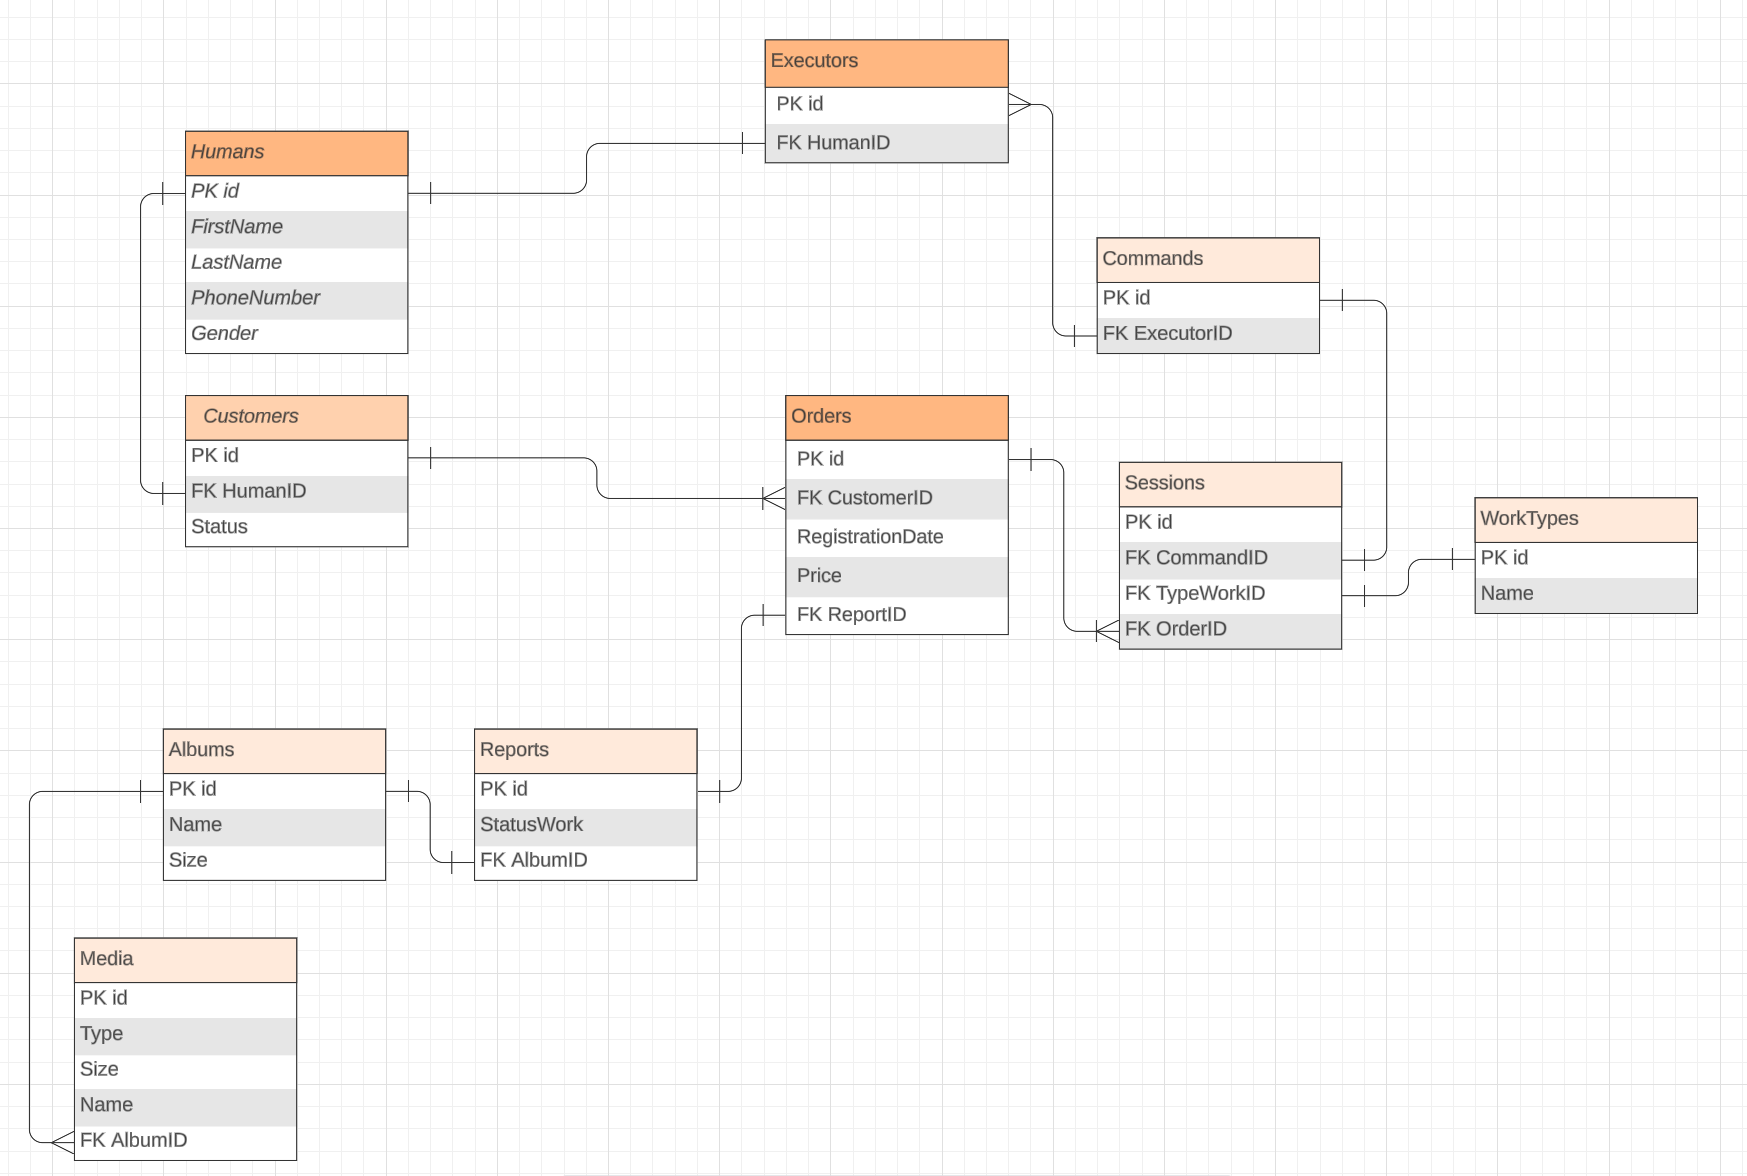
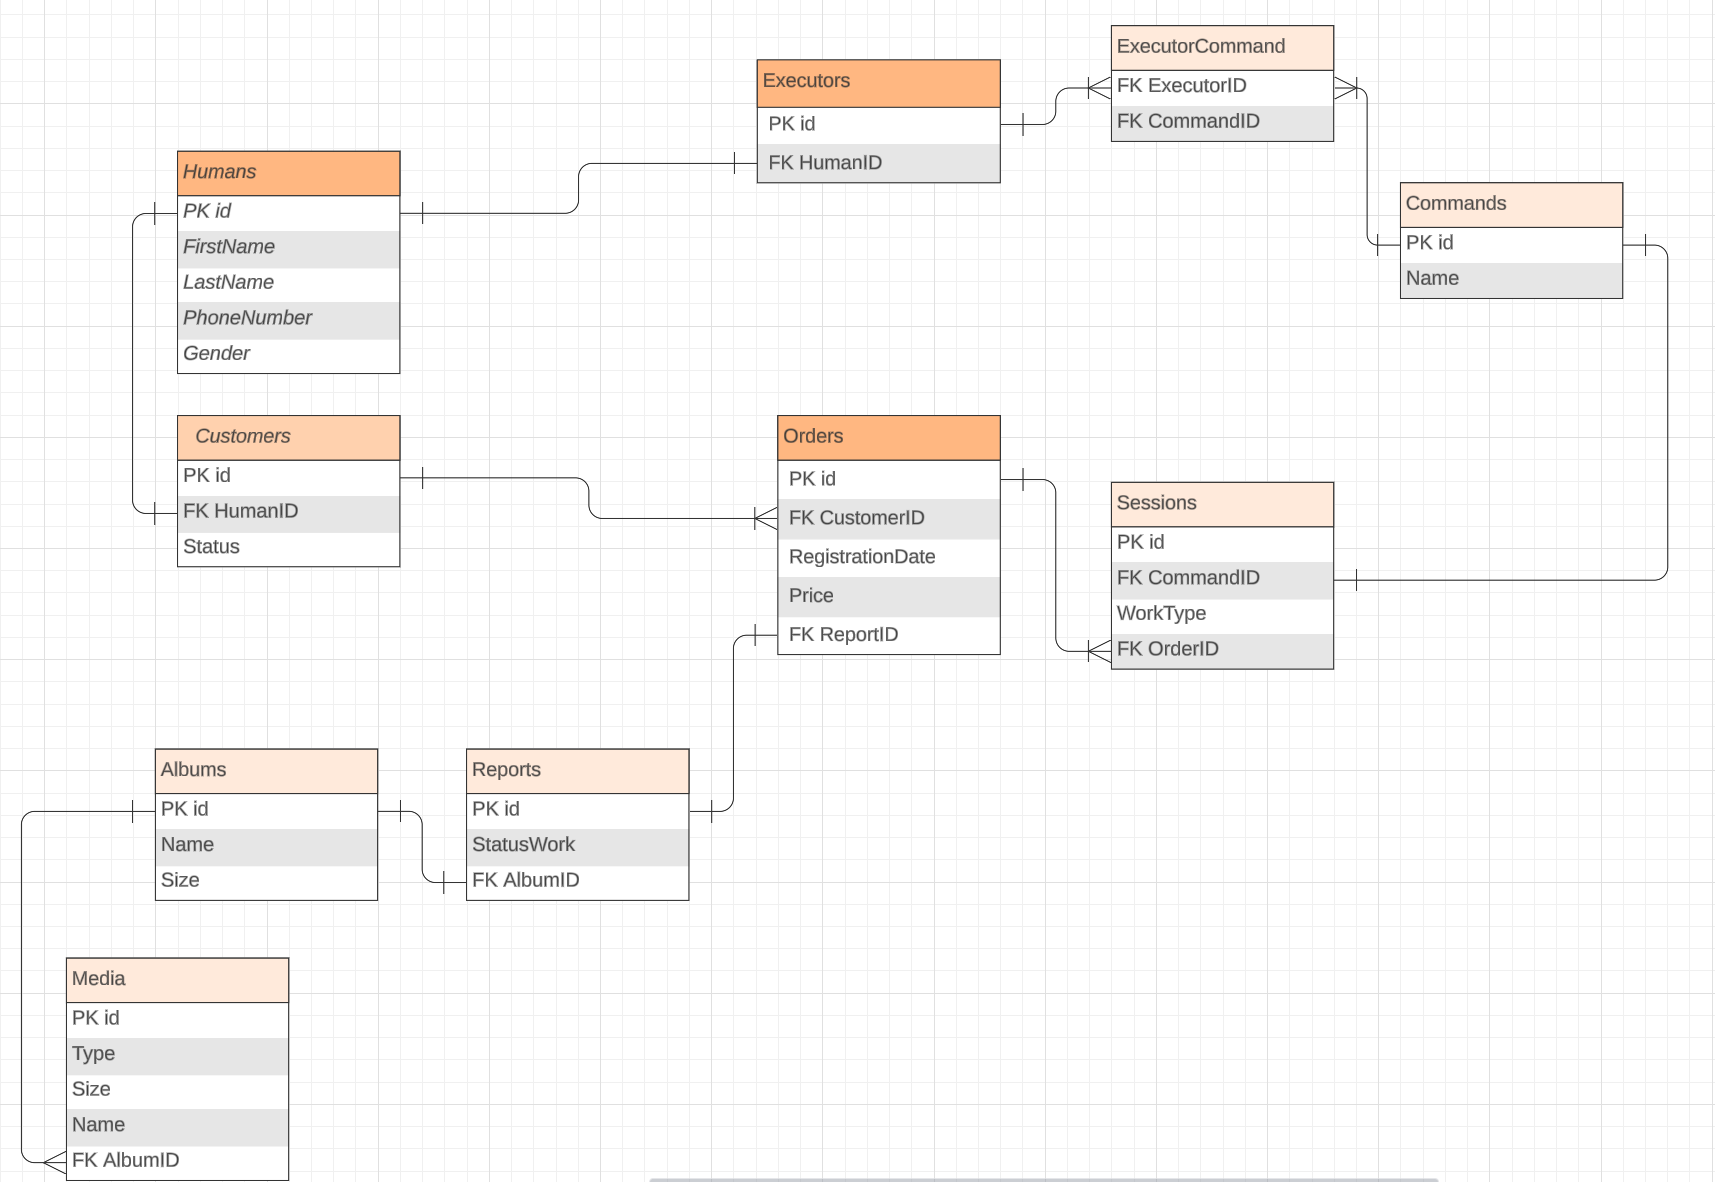
Изменил ER диаграмму. Изменил Таблицы и некоторые запросы к новой диаграмме. Также пришлось изменить генераторы

diff --git a/DBModule.py b/DBModule.py
@@ -10,7 +10,7 @@ class DB:
     def create_tables(self):
         self._create_table_humans()
         self._create_table_customers()
-        self._create_table_work_types()
+        self._create_table_executor_command()
         self._create_table_executors()
         self._create_table_commands()
         self._create_table_albums()
@@ -53,11 +53,12 @@ class DB:
             "UNIQUE(id, HumanID));"
 
     @_add_request_sql
-    def _create_table_work_types(self):
-        return "CREATE TABLE IF NOT EXISTS WorkTypes(id integer PRIMARY KEY AUTOINCREMENT, "\
-            "Name text, "\
-            "UNIQUE(id));"
-
+    def _create_table_executor_command(self):
+        return "CREATE TABLE IF NOT EXISTS ExecutorCommand(ExecutorID integer NOT NULL, "\
+            "CommandID NOT NULL, "\
+            "FOREIGN KEY (CommandID) REFERENCES Commands (id) ON DELETE CASCADE, "\
+            "FOREIGN KEY (ExecutorID) REFERENCES Executors (id) ON DELETE CASCADE, "\
+            "PRIMARY KEY(ExecutorID, CommandID));"
 
     @_add_request_sql
     def _create_table_albums(self):
@@ -98,19 +99,16 @@ class DB:
 
     @_add_request_sql
     def _create_table_commands(self):
-        return "CREATE TABLE IF NOT EXISTS Commands(id integer PRIMARY KEY AUTOINCREMENT, "\
-            "ExecutorID integer NOT NULL, "\
-            "FOREIGN KEY (ExecutorID) REFERENCES Executors (id) ON DELETE CASCADE, "\
-            "UNIQUE(id));"
+        return "CREATE TABLE IF NOT EXISTS Commands(id integer PRIMARY KEY, "\
+            "Name text);"
 
     @_add_request_sql
     def _create_table_sessions(self):
         return "CREATE TABLE IF NOT EXISTS Sessions(id integer PRIMARY KEY AUTOINCREMENT, "\
             "CommandID integer NOT NULL, "\
-            "TypeWorkID integer NOT NULL, "\
+            "TypeWork text NOT NULL, "\
             "OrderID integer NOT NULL, "\
             "FOREIGN KEY (CommandID) REFERENCES Commands (id) ON DELETE CASCADE, " \
-            "FOREIGN KEY (TypeWorkID) REFERENCES TypeWorks (id) ON DELETE CASCADE, " \
             "FOREIGN KEY (OrderID) REFERENCES Orders (id) ON DELETE CASCADE, "\
             "UNIQUE(id));"
 
@@ -159,7 +157,7 @@ class DB:
         id = next(cur)[0]
         return id
 
-    def add_report(self, status_work, album_id = None, album_name = None, id = None):
+    def add_report(self, status_work, album_id=None, album_name=None, id=None):
         album = self.get_album(album_id)
         cur = None
         if (album == None):
@@ -175,37 +173,50 @@ class DB:
 
     def add_order(self, customer_id, registration_date, price, report_id = None):
         if (report_id == None):
-            report_id = self.add_report("Registred")
+            report_id = self.add_report("Запланировано")
         cur = self.cursor.execute('INSERT OR IGNORE INTO Orders(CustomerID, RegistrationDate, Price, ReportID)'\
                                     'VALUES (?, ?, ?, ?) returning id', (customer_id, registration_date, price, report_id))
         id = next(cur)[0]
         return id
 
-    def add_command(self, id, customer_id):
-        cur = self.cursor.execute('INSERT OR REPLACE INTO Commands(id, ExecutorID) VALUES(?,?) returning id', id, customer_id)
+    def add_command(self, name):
+        cur = self.cursor.execute(f'INSERT OR REPLACE INTO Commands(Name) VALUES(\"{name}\") returning id')
         id = next(cur)[0]
         return id
 
-    def add_work_type(self, name, id = None):
-        cur = self.cursor.execute('INSERT OR REPLACE INTO Commands(id, Name) VALUES(?,?) returning id', id, name)
+    def add_session(self, command_id, type_work, order_id, id = None):
+        cur = self.cursor.execute('INSERT OR REPLACE INTO Commands(id, CommandID, TypeWork, OrderID)'\
+                                  'VALUES(?, ?, ?, ?) returning id', id, command_id, type_work, order_id)
         id = next(cur)[0]
         return id
 
-    def add_session(self, command_id, type_work_id, order_id, id = None):
-        cur = self.cursor.execute('INSERT OR REPLACE INTO Commands(id, CommandID, TypeWorkID, OrderID)'\
-                                  'VALUES(?, ?, ?, ?) returning id', id, command_id, type_work_id, order_id)
-        id = next(cur)[0]
-        return id
-
+    def add_executor_command(self, executor_id, command_id):
+        cur = self.cursor.execute('INSERT OR REPLACE INTO ExecutorCommand(ExecutorID, CommandID)'\
+                                  'VALUES(?, ?)', (executor_id, command_id))
 
     def update_album_size(self, id, size):
         self.cursor.execute(f"UPDATE Albums SET size = \"{size}\" where id = \"{id}\"")
 
-    def update_command_executor(self, old_id, new_id):
-        self.cursor.execute(f"UPDATE Commands SET id=\"{new_id}\" where id = \"{old_id}\"")
-
     def update_status_report(self, id, status_work):
         self.cursor.execute(f"UPDATE Commands SET StatusWork=\"{status_work}\" where id =\"{id}\"")
+
+    def get_all_executors_in_command(self, command_id):
+        cur = self.cursor.execute("SELECT Commands.Name, Humans.FirstName, Humans.LastName "\
+                            "FROM ExecutorCommand "\
+                            "JOIN Executors ON Executors.HumanID=ExecutorCommand.ExecutorID "\
+                            "JOIN Humans ON Humans.id=Executors.HumanID "\
+                            "JOIN Commands ON CommandID=Commands.id "\
+                            f"WHERE Commands.id = \"{command_id}\"")
+        return cur.fetchall()
+
+    def get_all_executors(self):
+        cur = self.cursor.execute("SELECT FirstName, LastName, PhoneNumber FROM Executors, Humans Where Executors.HumanID=Humans.id")
+        return cur.fetchall()
+
+    def get_all_id_executors(self):
+        cur = self.cursor.execute("SELECT id FROM Executors")
+        all_id = cur.fetchall()
+        return list(map(sum, all_id))
 
     def get_all_media_by_id(self, album_id):
         cur = self.cursor.execute(f"SELECT * FROM Media WHERE id = \"{album_id}\"")
@@ -261,8 +272,8 @@ class DB:
     def drop_tables(self):
         self.manual_request("DROP TABLE IF EXISTS Albums;")
         self.manual_request("DROP TABLE IF EXISTS Media;")
+        self.manual_request("DROP TABLE IF EXISTS ExecutorCommand")
         self.manual_request("DROP TABLE IF EXISTS Sessions")
-        self.manual_request("DROP TABLE IF EXISTS WorkTypes")
         self.manual_request("DROP TABLE IF EXISTS Commands")
         self.manual_request("DROP TABLE IF EXISTS Executors")
         self.manual_request("DROP TABLE IF EXISTS Orders")
@@ -273,8 +284,8 @@ class DB:
     def clear_tables(self):
         self.manual_request("DELETE FROM Albums;")
         self.manual_request("DELETE FROM Media;")
+        self.manual_request("DELETE FROM ExecutorCommand")
         self.manual_request("DELETE FROM Sessions")
-        self.manual_request("DELETE FROM WorkTypes")
         self.manual_request("DELETE FROM Commands")
         self.manual_request("DELETE FROM Executors")
         self.manual_request("DELETE FROM Orders")

diff --git a/generator.py b/generator.py
@@ -18,10 +18,16 @@ class Generator:
     media_types = ["Фото", "Видео", "Аудио"]
     album_names = ["Лето", "Зима", "Выпускной", "День рождение"]
     cools = ["Круто", "Весело", "Стыдно", "Грустно", "Вот это да"]
+    command_names = ["Ромашка", "Васильки", "Металл", "Музыканты"]
 
     @staticmethod
     def take_random_seed():
         random.seed()
+
+    @staticmethod
+    @get_random
+    def __get_random_command_name():
+        return Generator.command_names
 
     @staticmethod
     @get_random
@@ -80,7 +86,7 @@ class Generator:
 
     @staticmethod
     def __generate_album_name():
-        strings = [random.choice(Generator.album_names), str(random.randint(2000, 2024)), random.choice(Generator.cools)]
+        strings = [random.choice(Generator.album_names), '-', str(random.randint(2000, 2024)), ' ', random.choice(Generator.cools)]
         return ''.join(strings)
 
     @staticmethod
@@ -102,6 +108,8 @@ class Generator:
 
     @staticmethod
     def generate_album(size=0):
+        if size is None:
+            size = random.randint(1, 1000)
         return Generator.__generate_album_name(), size
 
     @staticmethod
@@ -112,13 +120,17 @@ class Generator:
     def generate_media(size=0, album_id=None):
         if size == 0:
             size=random.randint(1, 100)
-        return (Generator.__get_random_media_type, size,
-                Generator.__generate_album_name().join(str(random.randint(1, 100))), album_id)
+        return (Generator.__get_random_media_type(), size,
+                Generator.__generate_album_name()+' '+(str(random.randint(1, 100))), album_id)
 
     @staticmethod
     def generate_sessions(command_id, order_id):
-        return command_id, random.randint(1,2), order_id
+        return command_id, Generator.__get_random_work_type, order_id
 
     @staticmethod
-    def generate_command(mas_of_executors):
+    def generate_executors_in_command(mas_of_executors):
         return random.choices(mas_of_executors, k=random.randint(1, 4))
+
+    @staticmethod
+    def generate_command():
+        return ''.join([Generator.__get_random_command_name(), str(random.randint(1, 100))])
